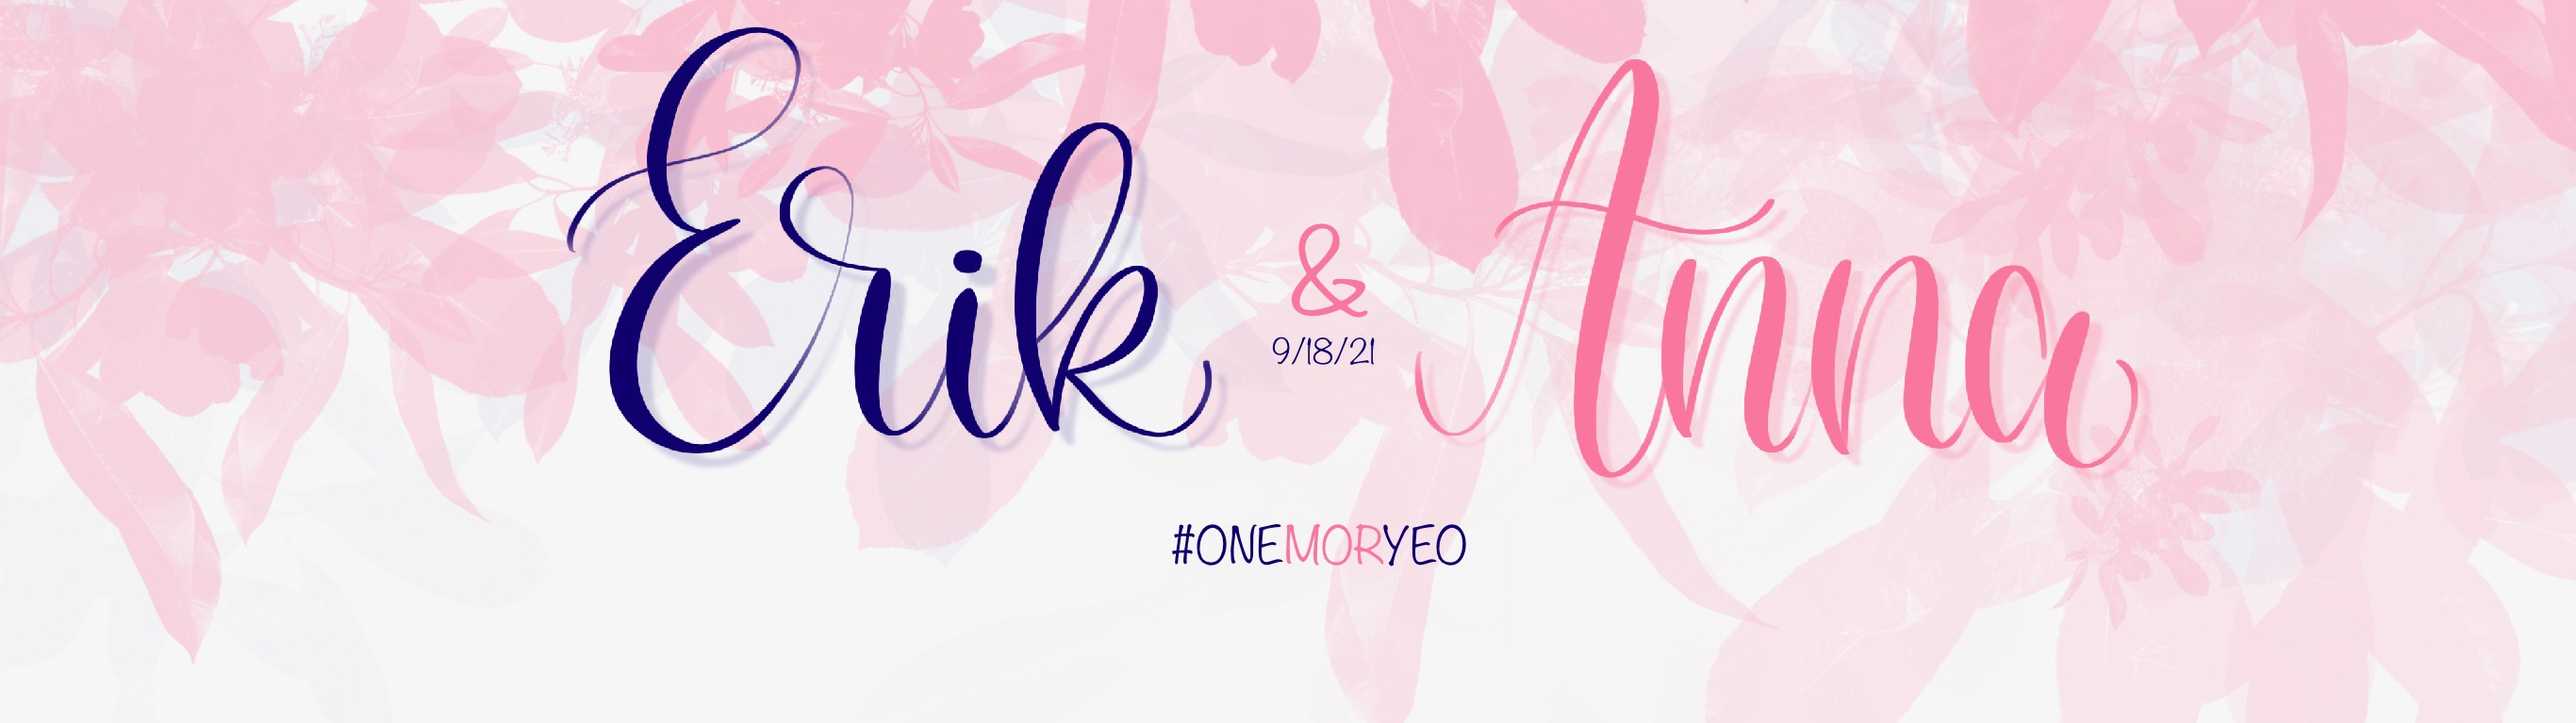
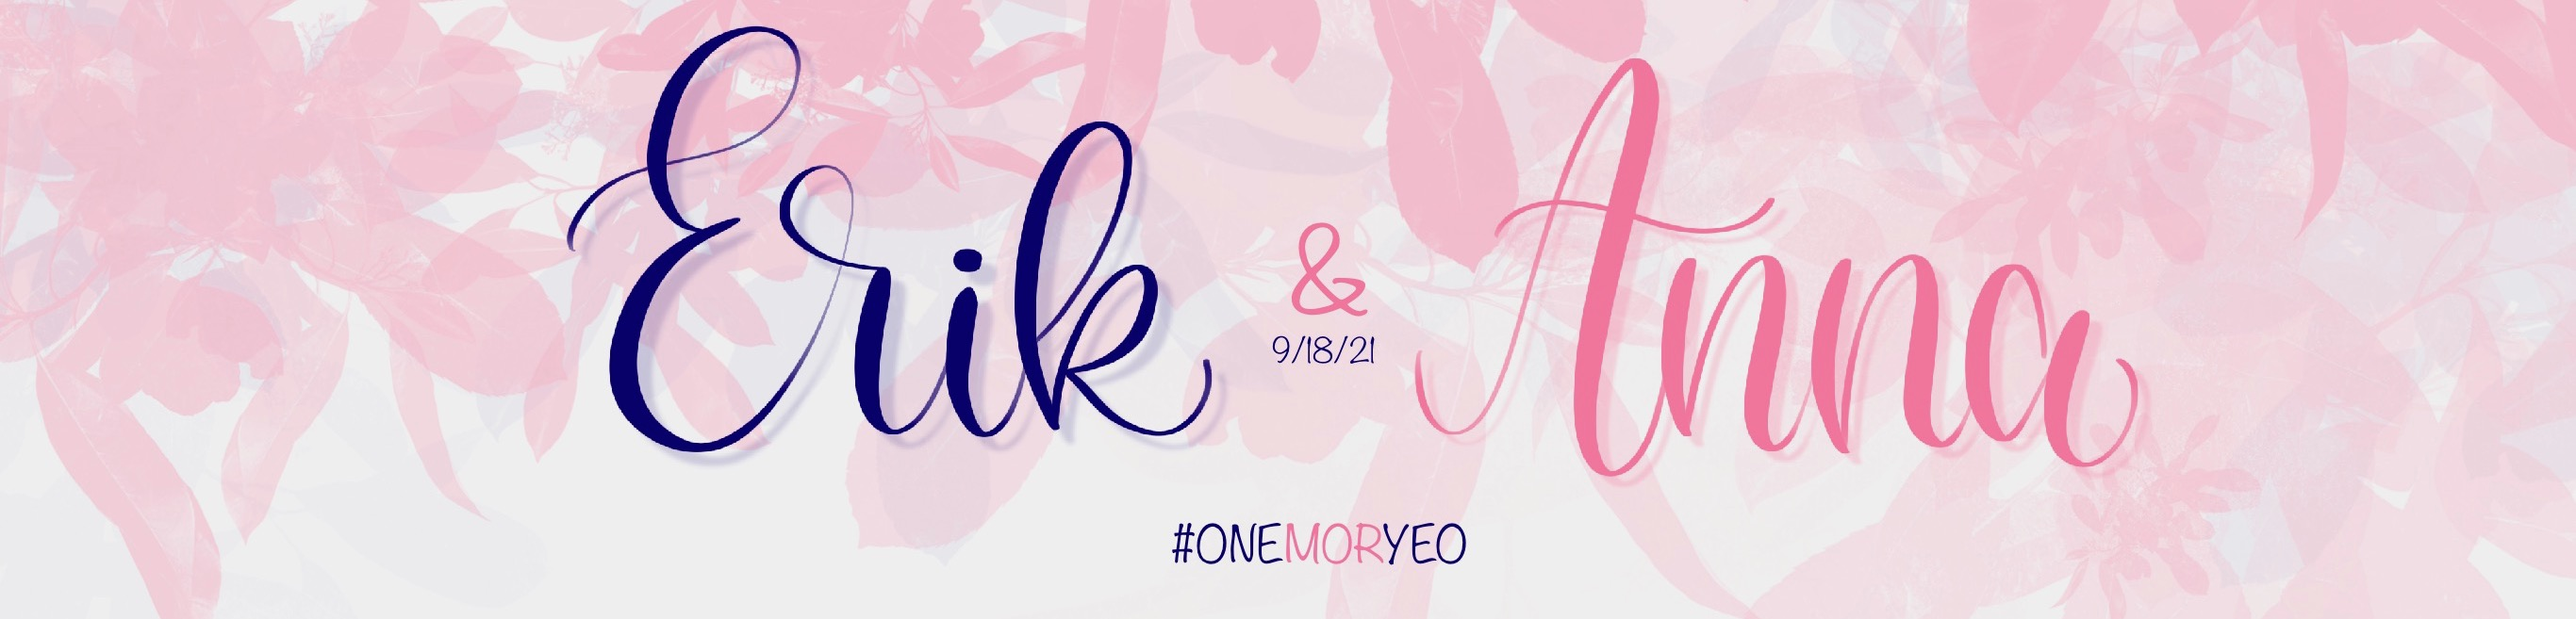
Style: header size

diff --git a/src/App.css b/src/App.css
@@ -26,22 +26,10 @@
   font-size: calc(10px + 2vmin);
   color: white;
 }
-@media(min-height: 1228px) {
-  .header-img {
-    background-image:  url(header.jpg);
-    background-position: top;
-    background-repeat: no-repeat;
-    height: 300px;
-    background-size: cover;
-  }
-}
 
 .header-img {
-  background-image:  url(header.jpg);
-  background-position: top;
-  background-repeat: no-repeat;
-  height: 325px;
-  background-size: cover;
+  height: auto;
+  width: 100%;
 }
 
 .App-link {
@@ -103,7 +91,7 @@
   text-decoration: none;
 }
 
-.navbar-style:hover{
+.navbar-style:hover {
   color: #fc89ac;
 }
 
@@ -139,7 +127,7 @@
   justify-content: space-evenly;
 }
 
-@media(max-width: 980px){
+@media(max-width: 980px) {
   .row-registry {
     display: block;
     flex-direction: column;
@@ -242,12 +230,12 @@
   color: #000067
 }
 
-.grow { 
-  transition: all .1s ease-in-out; 
+.grow {
+  transition: all .1s ease-in-out;
 }
 
-.grow:hover { 
-  transform: scale(1.1); 
+.grow:hover {
+  transform: scale(1.1);
 }
 
 .map {

diff --git a/src/Navbar.js b/src/Navbar.js
@@ -1,12 +1,13 @@
 import React from 'react';
 import './App.css';
- 
+import headerPicture from "./header.jpg" 
+
 function Navbar() {
   
   return (
     <div className="App">
-      <header className="header-img">
-      </header>
+      <img src={headerPicture} alt="headerPicture" className="header-img">
+      </img>
       <div className="row-navbar">
           <a href="/" className="navbar-style grow">Erik + Anna</a>
           <a href="/venue" className="navbar-style grow">Venue</a>
